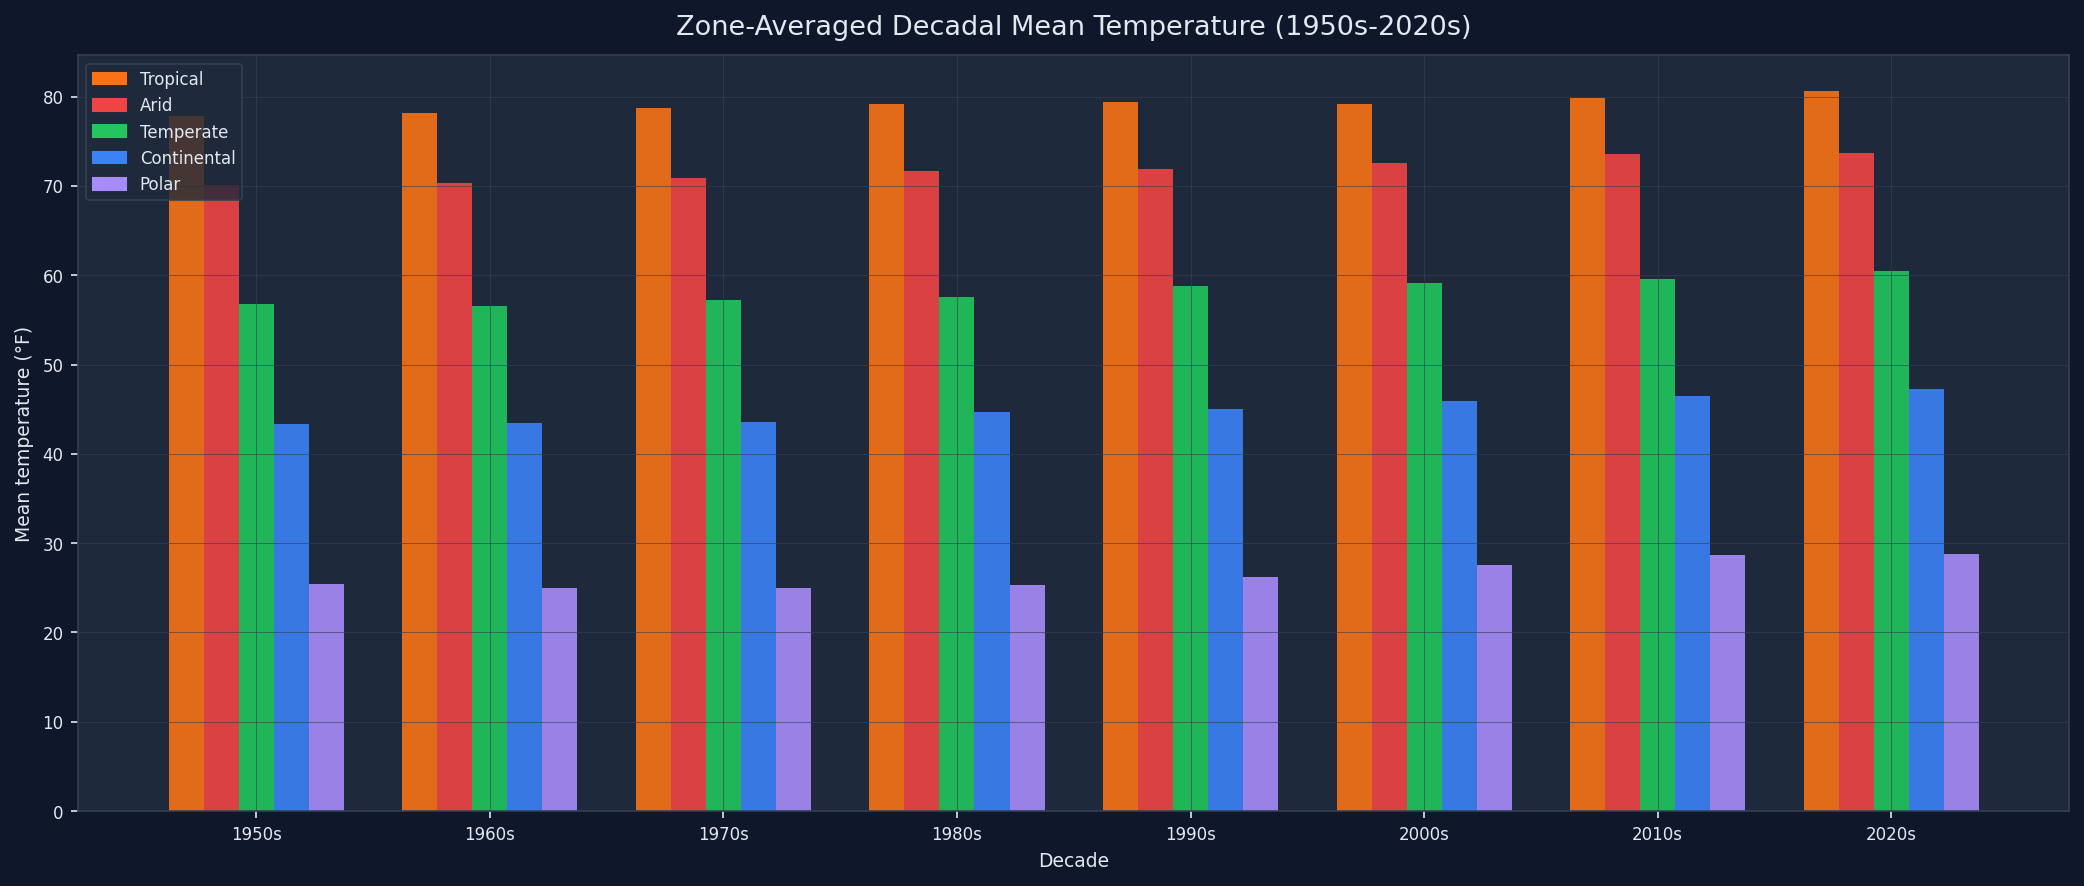
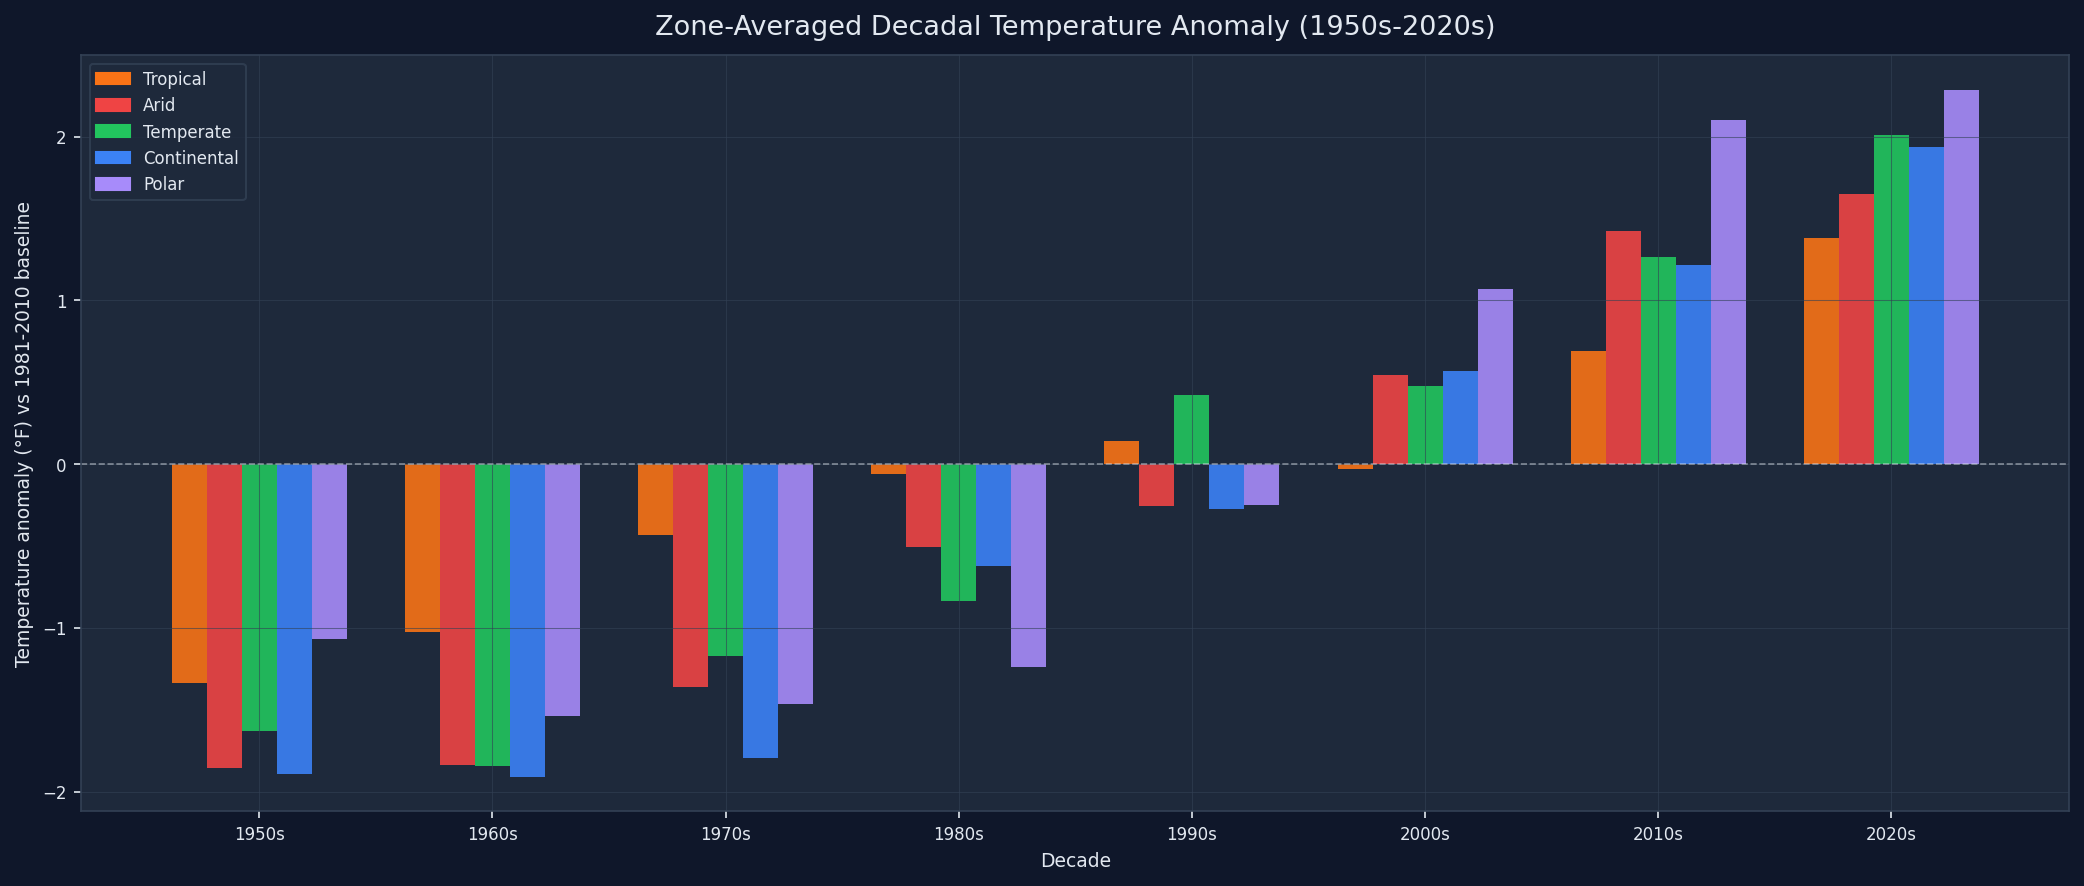
Switch decadal trends chart to show anomalies vs absolute temperatures
Absolute temperatures made warming invisible on a shared y-axis spanning
15F to 78F across zones. Anomalies relative to the 1981-2010 baseline
remove the between-zone offset so the warming trend is readable.

diff --git a/visualize.py b/visualize.py
@@ -145,17 +145,26 @@ def plot_anomaly_heatmap(records: list[StationRecord]) -> None:
 def plot_decadal_trends(records: list[StationRecord]) -> None:
     """
     Grouped bar chart: x-axis = decade (1950s through 2020s),
-    one bar group per climate zone, bars colored by zone.
+    one bar group per climate zone, bars show average temperature anomaly
+    relative to the 1981-2010 baseline.
+
+    Showing anomalies instead of absolute temperatures removes the baseline
+    difference between zones (polar cities are always colder than tropical),
+    so the warming trend becomes visible across all zones on the same scale.
     """
     decades = list(range(1950, 2030, 10))
     zone_names = list(ZONE_COLORS.keys())
 
-    # Build a dict: zone_name -> Series indexed by decade, value = mean temp across zone's cities.
+    # Compute anomalies for each city, then group into decades.
     zone_decade_means = {zone: {} for zone in zone_names}
     for record in records:
         if record.df.empty or "temp" not in record.df.columns:
             continue
-        decadal_means = compute_decadal_means(record.df, "temp")
+        anomalies = compute_anomalies(record.df)
+        if anomalies.empty:
+            continue
+        anomaly_df = anomalies.to_frame(name="anomaly")
+        decadal_means = compute_decadal_means(anomaly_df, "anomaly")
         if decadal_means.empty:
             continue
         for decade, row in decadal_means.iterrows():
@@ -164,9 +173,7 @@ def plot_decadal_trends(records: list[StationRecord]) -> None:
                 zone_decade_means[zone][decade] = []
             zone_decade_means[zone][decade].append(row["mean_value"])
 
-    # Average across cities within each zone per decade.
-    # Skip NaN values before averaging — a city with no data in a given decade
-    # would otherwise make the whole zone average NaN.
+    # Average across cities within each zone per decade, skipping NaN values.
     zone_decade_averages = {}
     for zone_name, decade_data in zone_decade_means.items():
         zone_decade_averages[zone_name] = {}
@@ -179,7 +186,6 @@ def plot_decadal_trends(records: list[StationRecord]) -> None:
 
     number_of_zones = len(zone_names)
     bar_width = 0.15
-    # Center each group of zone bars around the decade tick.
     offsets = [(i - number_of_zones / 2 + 0.5) * bar_width for i in range(number_of_zones)]
 
     for zone_index, zone_name in enumerate(zone_names):
@@ -199,12 +205,16 @@ def plot_decadal_trends(records: list[StationRecord]) -> None:
                 label=zone_name.capitalize(),
             )
 
+    # Zero line marks the 1981-2010 baseline. Bars above it are warmer than
+    # average, bars below are cooler.
+    axis.axhline(0, color=LIGHT_TEXT, linewidth=0.8, linestyle="--", alpha=0.5)
+
     decade_labels = [f"{d}s" for d in decades]
     axis.set_xticks(range(len(decades)))
     axis.set_xticklabels(decade_labels, fontsize=9)
-    axis.set_ylabel("Mean temperature (°F)", fontsize=9)
+    axis.set_ylabel("Temperature anomaly (°F) vs 1981-2010 baseline", fontsize=9)
     axis.set_xlabel("Decade", fontsize=9)
-    axis.set_title("Zone-Averaged Decadal Mean Temperature (1950s-2020s)", fontsize=13, pad=10)
+    axis.set_title("Zone-Averaged Decadal Temperature Anomaly (1950s-2020s)", fontsize=13, pad=10)
 
     legend_patches = [
         mpatches.Patch(color=ZONE_COLORS[zone], label=zone.capitalize())
